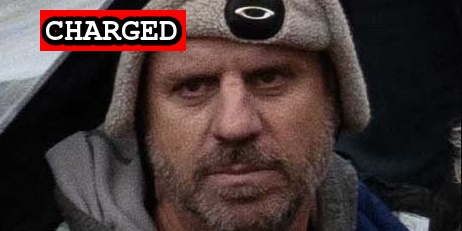
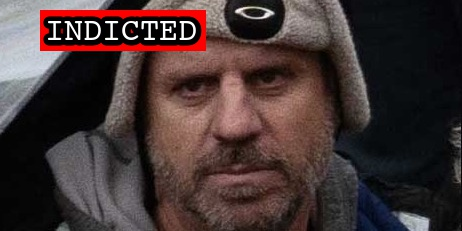
Latest import

Changed region(s): [[0.0606, 0.0303, 0.4545, 0.2424]]

diff --git a/docs/_suspects/jeffrey-smith.md b/docs/_suspects/jeffrey-smith.md
@@ -4,16 +4,16 @@ lastName: Smith
 hashtag: JeffreyAlexanderSmith
 aka: Alex Smith
 residence: California
-status: Charged
+status: Convicted
 date: 2021-01-27
 charged: 2021-01-27
 indicted:
-convicted:
+convicted: 2021-10-28
 sentenced:
 dismissed:
 deceased:
-plea_hearing:
-sentencing:
+plea_hearing: 2021-10-28
+sentencing: 2022-01-21
 age: 33
 occupation: U.S. Army (Former)
 affiliations: military
@@ -34,11 +34,16 @@ published: true
 caseNumber: 1:21-cr-290
 videos:
 charges:
+  - code: 18 USC § 5104(e)(2)(G)
+    title: Parading, demonstrating or picketing in a Capitol building
+    url: https://www.law.cornell.edu/uscode/text/40/5104
+    felony: false
 sentence:
 ---
 
 - [News Report](https://www.cbs8.com/article/news/politics/coronado-arrest-capitol-riot/509-740c83a7-f93e-4283-87da-d5a54005906b)
 - [Complaint](https://www.justice.gov/opa/page/file/1361426/download)
-- [Statement of Facts](https://www.justice.gov/opa/page/file/1361426/download)
+- [Statement of Facts](https://www.justice.gov/usao-dc/case-multi-defendant/file/1445281/download)
 - [FBI Statement (Twitter)](https://twitter.com/FBISanDiego/status/1354835002513645571?s=20)
 - [Information](https://www.justice.gov/usao-dc/case-multi-defendant/file/1386296/download)
+- [Plea Agreement](https://www.justice.gov/usao-dc/case-multi-defendant/file/1445286/download)

diff --git a/docs/_suspects/jeffrey-brown.md b/docs/_suspects/jeffrey-brown.md
@@ -4,10 +4,10 @@ lastName: Brown
 hashtag: BlackHatSprayer
 aka:
 residence: California
-status: Charged
+status: Indicted
 date: 2021-08-16
 charged: 2021-08-16
-indicted:
+indicted: 2021-10-27
 convicted:
 sentenced:
 dismissed:
@@ -36,10 +36,10 @@ videos:
 charges:
 sentence:
 ---
-
 - [News Report](https://theavtimes.com/2021/08/26/two-socal-men-arrested-for-assault-on-law-enforcement-at-capitol-riot/)
 - [Statement of Facts](https://www.justice.gov/usao-dc/case-multi-defendant/file/1428081/download)
 - [DOJ Press Release](https://www.justice.gov/usao-dc/pr/california-men-arrested-assault-law-enforcement-during-jan-6-capitol-breach)
 - [Government Motion for Emergency Appeal of Release Order](undefined)
 - [Defense Response to Motion for Appeal of Release Order](https://extremism.gwu.edu/sites/g/files/zaxdzs2191/f/Jeffrey%20Scott%20Brown%20Defense%20Opposition%20to%20Governments%20Bail%20Appeal.pdf)
 - [Order Revoking Bond](https://extremism.gwu.edu/sites/g/files/zaxdzs2191/f/Jeffrey%20Scott%20Brown%20Memorandum%20Opinion%20Granting%20Governments%20Motion%20to%20Revoke%20Release%20Order.pdf)
+- [Indictment](https://extremism.gwu.edu/sites/g/files/zaxdzs2191/f/Peter%20Schwartz%20and%20Jeffrey%20Scott%20Brown%20Superseding%20Indictment.pdf)

diff --git a/docs/_suspects/robert-ballesteros.md b/docs/_suspects/robert-ballesteros.md
@@ -4,16 +4,16 @@ lastName: Ballesteros
 hashtag: RobertBallesteros
 aka:
 residence: New York
-status: Charged
+status: Convicted
 date: 2021-01-20
 charged: 2021-01-20
 indicted:
-convicted:
+convicted: 2021-10-28
 sentenced:
 dismissed:
 deceased:
-plea_hearing:
-sentencing:
+plea_hearing: 2021-10-28
+sentencing: 2022-01-27
 age: 28
 occupation:
 affiliations:
@@ -34,8 +34,14 @@ published: true
 caseNumber: 1:21-mj-132
 videos:
 charges:
+  - code: 18 USC § 5104(e)(2)(G)
+    title: Parading, demonstrating or picketing in a Capitol building
+    url: https://www.law.cornell.edu/uscode/text/40/5104
+    felony: false
 sentence:
 ---
+
 - [News Report](https://www.lohud.com/story/news/crime/2021/03/17/mahopac-man-charged-capitol-riot/4730583001/)
-- [Statement of Facts](https://www.justice.gov/usao-dc/case-multi-defendant/file/1378371/download)
+- [Statement of Facts](https://www.justice.gov/usao-dc/case-multi-defendant/file/1445276/download)
 - [Information](https://extremism.gwu.edu/sites/g/files/zaxdzs2191/f/Robert%20Ballesteros%20Information.pdf)
+- [Plea Agreement](https://www.justice.gov/usao-dc/case-multi-defendant/file/1445271/download)
